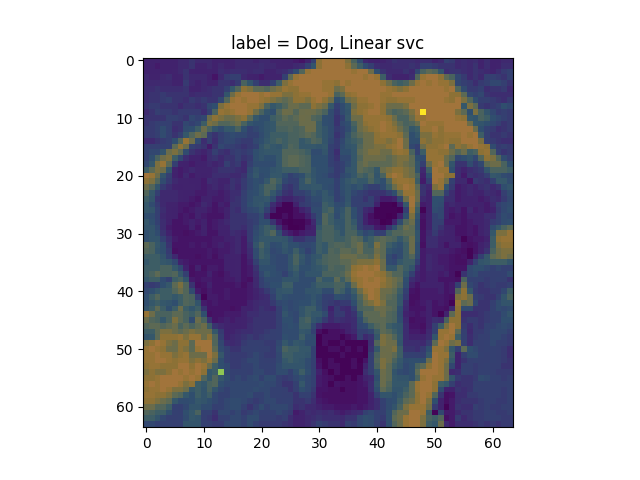
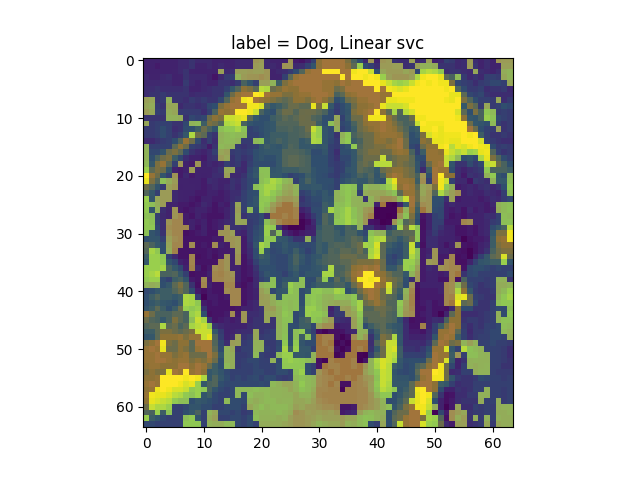
asd

diff --git a/1e/main.py b/1e/main.py
@@ -64,8 +64,8 @@ def plot_err(errors, df):
 
 def plot_feat(feat_list, method):
     plt.figure()
-    pic1 = np.array(data.iloc[0])
-    plt.title(f'label = {get_label(np.array(label.iloc[0]))}, '+method)
+    pic1 = np.array(data.iloc[2])
+    plt.title(f'label = {get_label(np.array(label.iloc[2]))}, '+method)
     plt.imshow(pic1.reshape(64, 64).T)
     image = np.zeros(np.shape(data)[1])
     for feat in feat_list:
@@ -301,8 +301,8 @@ if __name__ == '__main__':
     dogs, label_dogs, cats, label_cats = separate_data(data, label)
 
     pca = PCA()
-    pca.fit(cats)
-    #pca.fit(dogs)
+    #pca.fit(cats)
+    pca.fit(dogs)
     cut_off = 0.01
     PC_values = np.arange(pca.n_components_) + 1
     plt.plot(PC_values, pca.explained_variance_ratio_, 'o-', linewidth=2)
@@ -321,18 +321,18 @@ if __name__ == '__main__':
     #x_tr, x_te, y_tr, y_te = train_test_split(data, label, test_size=0.2, random_state=8)
     #TODO träna på trainoch kör på test
 
-    num_clusters = 3 # Cats
-    #num_clusters = 2 # Dogs
+    #num_clusters = 3 # Cats
+    num_clusters = 2 # Dogs
 
     gmm = GaussianMixture(n_components=num_clusters)
     #y_pred = pd.DataFrame(gmm.fit_predict(cats_pca))
-    y_pred = pd.DataFrame(gmm.fit_predict(cats_pca))
+    y_pred = pd.DataFrame(gmm.fit_predict(dogs_pca))
     print(type(y_pred))
 
     #run_1a(cats_pca, y_pred)
     #run_1a(dogs_pca, y_pred)
 
-    run_1b(cats, y_pred)
+    run_1b(dogs, y_pred)
 
 
 
